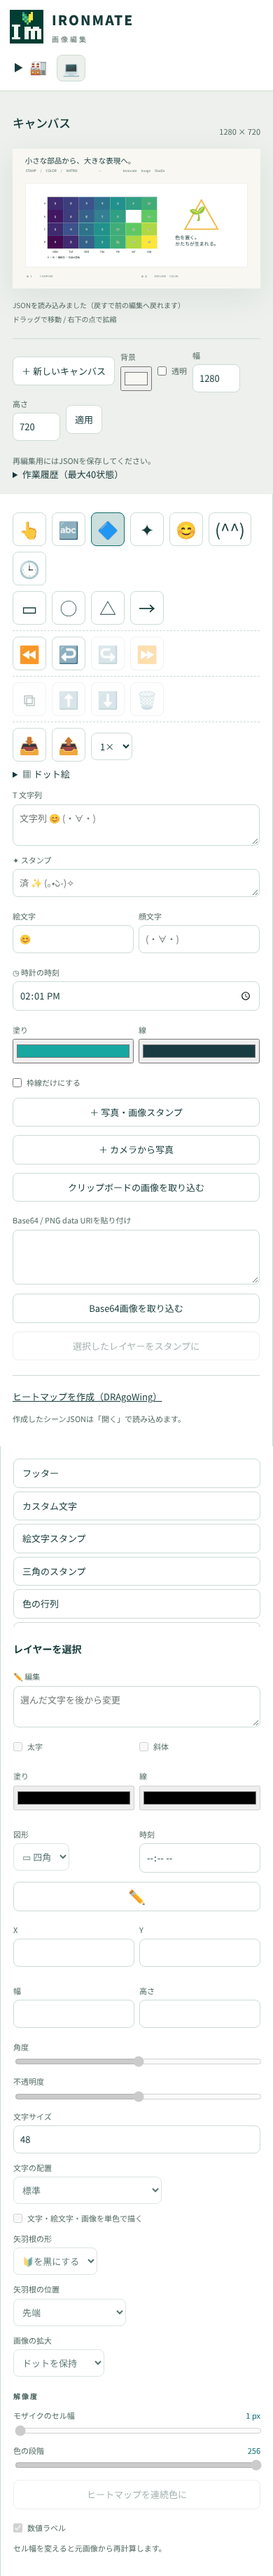
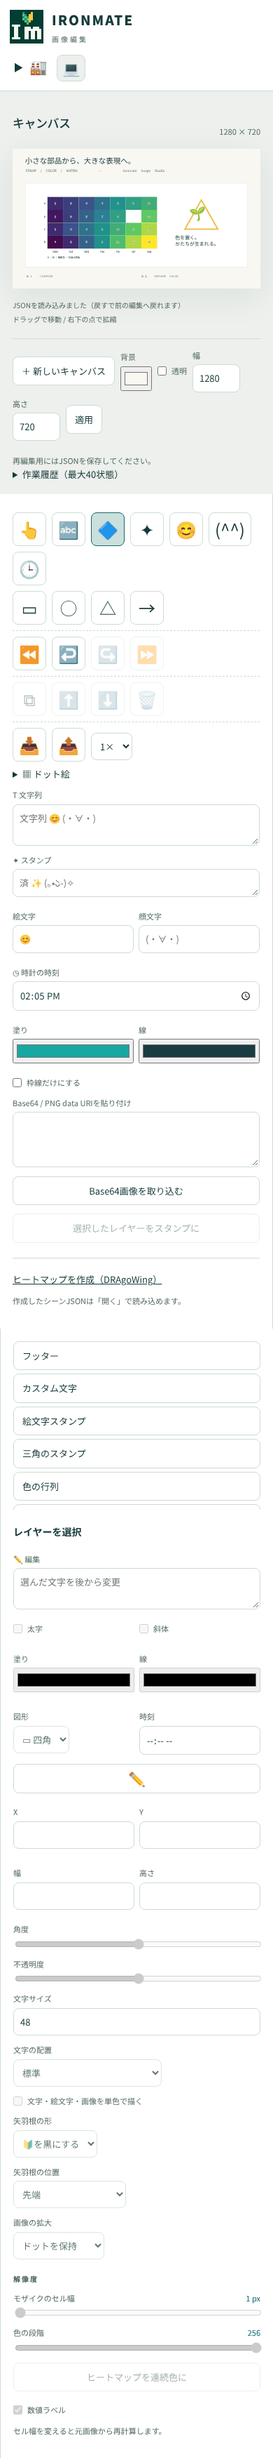
📥 取り込みは 📥 に集める：画像・カメラ・クリップボードを候補に（2 つの工房で同じ順番）
- 画像工房の 📥：画像・カメラ・クリップボード・JSON・作業履歴・シェルフ。左の欄の「＋ 写真・画像スタンプ」「＋ カメラから写真」
  「クリップボードの画像を取り込む」は候補へ移した（同じ処理を呼ぶ）
- スライド工房の 📥：画像・カメラ・JSON（スマホで撮った写真をそのままページへ）
- IronmateStudio.act(name)：道具の act・ヘッダーのキーと同じ処理を、Node・Playwright から待てる形で呼べる

Claude-Session: https://claude.ai/code/session_01YSgSJHsu35KVtPH5EvLLby

diff --git a/ironlib/studio_bundle.py b/ironlib/studio_bundle.py
@@ -158,13 +158,6 @@ STUDIO_HTML = r"""<!doctype html>
         <label class="check"
           ><input id="outline" type="checkbox" />枠線だけにする</label
         >
-        <label class="button wide"
-          >＋ 写真・画像スタンプ<input
-            id="image"
-            type="file"
-            accept="image/png,image/jpeg,image/webp" /></label
-        ><label class="button wide">＋ カメラから写真<input id="camera-image" type="file" accept="image/png,image/jpeg,image/webp" capture="environment" /></label
-        ><button id="paste-image" class="wide">クリップボードの画像を取り込む</button>
         <label>Base64 / PNG data URIを貼り付け<textarea id="import-base64" rows="3" aria-label="画像Base64入力"></textarea></label>
         <button id="import-base64-button" class="wide">Base64画像を取り込む</button>
         <button id="custom" class="wide">選択したレイヤーをスタンプに</button>
@@ -2155,6 +2148,8 @@ queueMicrotask(() => {
 });
 STUDIO_ACTS["open-json"] = () => $("open").click();
 STUDIO_ACTS["open-workspace"] = () => $("open-workspace").click();
+STUDIO_ACTS.image = () => $("image").click();
+STUDIO_ACTS.camera = () => $("camera-image").click();
 // 🧰 A host's header (PySaiyanWeBoo chrome rows, declared in #ui-chrome-rows by image_studio.host_rows) sends a key: the same act.
 document.addEventListener("ui-chrome-action", (e) => {
   const [key, scale] = String(e.detail?.key).split(/-(?=\d+$)/);
@@ -2532,7 +2527,8 @@ function clipboardImageText(text) {
   }
   return null; // Ordinary text, even if it happens to be valid Base64.
 }
-$("paste-image").onclick = guarded(async () => {
+STUDIO_ACTS.clipboard = guarded(async () => {
+  // 📥 クリップボード: an image, or image text (Base64 / data URI), from the clipboard
   const clipboard = navigator.clipboard;
   if (!clipboard || (typeof clipboard.readText !== "function" && typeof clipboard.read !== "function"))
     throw clipboardError("clipboard-unsupported", "このブラウザにはクリップボード読取APIがありません。ファイル選択またはBase64入力を利用してください");
@@ -2847,6 +2843,7 @@ window.IronmateStudio = {
   },
   pngBlob,
   importImageFile,
+  act: (name) => STUDIO_ACTS[name]?.(), // 🧰 what a toolbar press or a host's key runs (awaitable): IronmateStudio.act("clipboard")
   get selectedId() { return selected; },
   async replaceScene(value) {
     const next = C.validate(value);
@@ -3910,6 +3907,7 @@ const acts = {
   }),
   open: () => document.querySelector('input[data-file="open"]').click(),
   image: () => document.querySelector('input[data-file="image"]').click(),
+  camera: () => document.querySelector('input[data-file="camera"]').click(),
   json: () => C.save("ironmate-slides.json", D.deckText(deck), "application/json"),
   async svg() {
     const s = slide();
@@ -3978,7 +3976,7 @@ for (const input of document.querySelectorAll("input[data-file]"))
     const file = input.files[0];
     input.value = "";
     finishEdit();
-    if (file) run(() => files[input.dataset.file](file));
+    if (file) run(() => files[input.dataset.file === "camera" ? "image" : input.dataset.file](file)); // 📷 a photo is an image
   });
 document.addEventListener("keydown", (e) => {
   if (editing || /^(INPUT|TEXTAREA|SELECT)$/.test(e.target.tagName)) return; // ← → Home End: the pager's own keys
@@ -4089,7 +4087,7 @@ PSWB_PARTS = {
         '</div>'
         '<div class="ui-toolbar-row" data-ui-group="file">'
         '<button type="button" data-act="new" data-ui-word="新規" aria-label="最初から（白紙 1 枚）" title="最初から（白紙 1 枚）">🆕</button>'
-        '<button type="button" data-close data-acts="open image" data-words="JSON（全スライド。PC 版で保存したものも）|画像（PNG・JPEG・WebP をこのページに）" data-candidates="JSON 画像" data-act="import" data-ui-word="インポート" aria-label="インポート（どの形式から？ 候補から選ぶ）" title="インポート（どの形式から？ 候補から選ぶ）">📥</button>'
+        '<button type="button" data-close data-acts="image camera open" data-words="画像（PNG・JPEG・WebP をこのページに）|カメラ（撮った写真をこのページに）|JSON（全スライド。PC 版で保存したものも）" data-candidates="画像 カメラ JSON" data-act="import" data-ui-word="インポート" aria-label="インポート（どの形式から？ 候補から選ぶ）" title="インポート（どの形式から？ 候補から選ぶ）">📥</button>'
         '<button type="button" data-close data-acts="pptx json png svg" data-words="PPTX（全スライド、PowerPoint で編集できる）|JSON（全スライド、また開ける）|PNG（このページ）|SVG（このページ）" data-candidates="PPTX JSON PNG SVG" data-act="export" data-ui-word="エクスポート" aria-label="エクスポート（どの形式に？ 候補から選ぶ）" title="エクスポート（どの形式に？ 候補から選ぶ）">📤</button>'
         '<a class="ui-button" href="../" data-act="home" data-ui-word="Image Studio" aria-label="Image Studio" title="Image Studio">🏠</a>'
         '<button type="button" class="ui-button" id="labels-switch" data-ui-labels-switch data-ui-word="📱 To iconic" aria-pressed="false" aria-label="💻 To textual ⇄ 📱 To iconic" title="💻 To textual ⇄ 📱 To iconic">💻</button>'
@@ -4124,6 +4122,7 @@ PSWB_PARTS = {
         '</fieldset>'
         '<input type="file" data-file="open" accept=".json,application/json" aria-label="全スライドJSON" />'
         '<input type="file" data-file="image" accept="image/png,image/jpeg,image/webp" aria-label="画像" />'
+        '<input type="file" data-file="camera" accept="image/png,image/jpeg,image/webp" capture="environment" aria-label="カメラ" />'
         '</div>'),
     "image-toolbar": (
         '        <div class="ui-toolbar" id="studio-toolbar" role="toolbar" aria-label="道具">'
@@ -4151,7 +4150,7 @@ PSWB_PARTS = {
         '<button type="button" data-act="delete" data-ui-word="削除" aria-label="選んだものを削除" title="選んだものを削除">🗑</button>'
         '</div>'
         '<div class="ui-toolbar-row" data-ui-group="file">'
-        '<button type="button" data-close data-acts="open-json open-workspace shelf" data-words="JSON（再編集用のシーン）|作業履歴（最大40状態）|シェルフ（クリップボード・シェルフ）" data-candidates="JSON 作業履歴 シェルフ" data-act="import" data-ui-word="インポート" aria-label="インポート（どの形式から？ 候補から選ぶ）" title="インポート（どの形式から？ 候補から選ぶ）">📥</button>'
+        '<button type="button" data-close data-acts="image camera clipboard open-json open-workspace shelf" data-words="画像（PNG・JPEG・WebP をキャンバスに）|カメラ（撮った写真をキャンバスに）|クリップボード（コピーした画像・Base64）|JSON（再編集用のシーン）|作業履歴（最大40状態）|シェルフ（クリップボード・シェルフ）" data-candidates="画像 カメラ クリップボード JSON 作業履歴 シェルフ" data-act="import" data-ui-word="インポート" aria-label="インポート（どの形式から？ 候補から選ぶ）" title="インポート（どの形式から？ 候補から選ぶ）">📥</button>'
         '<button type="button" data-close data-acts="png svg json workspace base64" data-words="PNG（出力倍率で）|SVG（出力倍率で）|JSON（再編集用）|作業履歴（最大40状態）|Base64（Flutter などへ渡す）" data-candidates="PNG SVG JSON 作業履歴 Base64" data-act="export" data-ui-word="エクスポート" aria-label="エクスポート（どの形式に？ 候補から選ぶ）" title="エクスポート（どの形式に？ 候補から選ぶ）">📤</button>'
         '<select id="export-scale" title="出力倍率" aria-label="出力倍率">'
         '<option value="1">1×</option>'
@@ -4162,6 +4161,8 @@ PSWB_PARTS = {
         '</div>'
         '<input id="open" type="file" accept=".json" aria-label="JSONを開く" hidden />'
         '<input id="open-workspace" type="file" accept=".json,application/json" aria-label="作業履歴を開く" hidden />'
+        '<input id="image" type="file" accept="image/png,image/jpeg,image/webp" aria-label="画像" hidden />'
+        '<input id="camera-image" type="file" accept="image/png,image/jpeg,image/webp" capture="environment" aria-label="カメラ" hidden />'
         '</div>\n'),
 }
 # ⬆ pysaiyanweboo
@@ -4216,11 +4217,13 @@ def studio_toolbar(page: str) -> tuple[list, dict[str, str], dict[str, str]]:
         "grid": ("⊞", "4枚表示", "4枚表示（その場で編集）"),
     }
     formats = {  # 📥 📤 the same act, each page's own formats
-        "slides": {"import": ("JSON 画像", "open image", "JSON（全スライド。PC 版で保存したものも）|画像（PNG・JPEG・WebP をこのページに）"),
+        "slides": {"import": ("画像 カメラ JSON", "image camera open",
+                              "画像（PNG・JPEG・WebP をこのページに）|カメラ（撮った写真をこのページに）|JSON（全スライド。PC 版で保存したものも）"),
                    "export": ("PPTX JSON PNG SVG", "pptx json png svg",
                               "PPTX（全スライド、PowerPoint で編集できる）|JSON（全スライド、また開ける）|PNG（このページ）|SVG（このページ）")},
-        "image": {"import": ("JSON 作業履歴 シェルフ", "open-json open-workspace shelf",
-                             "JSON（再編集用のシーン）|作業履歴（最大40状態）|シェルフ（クリップボード・シェルフ）"),
+        "image": {"import": ("画像 カメラ クリップボード JSON 作業履歴 シェルフ", "image camera clipboard open-json open-workspace shelf",
+                             "画像（PNG・JPEG・WebP をキャンバスに）|カメラ（撮った写真をキャンバスに）|クリップボード（コピーした画像・Base64）"
+                             "|JSON（再編集用のシーン）|作業履歴（最大40状態）|シェルフ（クリップボード・シェルフ）"),
                   "export": ("PNG SVG JSON 作業履歴 Base64", "png svg json workspace base64",
                              "PNG（出力倍率で）|SVG（出力倍率で）|JSON（再編集用）|作業履歴（最大40状態）|Base64（Flutter などへ渡す）")}}[page]
     rows = {"slides": (("create", "text shape emoji kaomoji clock"), ("adjust", "smaller reset bigger undo redo"),
@@ -4242,7 +4245,9 @@ def studio_toolbar(page: str) -> tuple[list, dict[str, str], dict[str, str]]:
         scale = ('<select id="export-scale" title="出力倍率" aria-label="出力倍率">'
                  + "".join(f'<option value="{n}">{n}×</option>' for n in (1, 2, 4, 8)) + '</select>')
         files = ('<input id="open" type="file" accept=".json" aria-label="JSONを開く" hidden />'
-                 '<input id="open-workspace" type="file" accept=".json,application/json" aria-label="作業履歴を開く" hidden />')
+                 '<input id="open-workspace" type="file" accept=".json,application/json" aria-label="作業履歴を開く" hidden />'
+                 '<input id="image" type="file" accept="image/png,image/jpeg,image/webp" aria-label="画像" hidden />'
+                 '<input id="camera-image" type="file" accept="image/png,image/jpeg,image/webp" capture="environment" aria-label="カメラ" hidden />')
         return groups, {"file": scale}, {"file": files}
     numbers = (
         ("x", "横の位置", -8192, 8192, "any", ""), ("y", "縦の位置", -8192, 8192, "any", ""),
@@ -4257,7 +4262,8 @@ def studio_toolbar(page: str) -> tuple[list, dict[str, str], dict[str, str]]:
         + '<label>矢印の先端<select data-property="headPlacement" data-kinds="arrow">'
           '<option value="tip">端</option><option value="middle">中央</option></select></label></fieldset>')
     files = ('<input type="file" data-file="open" accept=".json,application/json" aria-label="全スライドJSON" />'
-             '<input type="file" data-file="image" accept="image/png,image/jpeg,image/webp" aria-label="画像" />')
+             '<input type="file" data-file="image" accept="image/png,image/jpeg,image/webp" aria-label="画像" />'
+             '<input type="file" data-file="camera" accept="image/png,image/jpeg,image/webp" capture="environment" aria-label="カメラ" />')
     after = {"adjust": '<div id="phone-layers" class="ui-toolbar-row ui-current-items" role="group" aria-label="レイヤー（奥から手前）" hidden></div>',
              "pages": '<div id="phone-pages" class="ui-toolbar-row ui-current-items" role="group" aria-label="ページの一覧" hidden></div>',
              "detail": inspector + files}

diff --git a/tests/test_studio.py b/tests/test_studio.py
@@ -1085,6 +1085,8 @@ def test_one_studio_toolbar_table_gives_each_act_one_face_and_one_meaning():
                 assert 0 < len(c['word']) <= 12 and c['close'] == (c['act'] in ('import', 'export')), c
     assert {'forward', 'backward', 'front', 'back', 'duplicate', 'slide-copy'} <= set(seen)          # ⬆ ⬇ one step, ⏫ ⏬ all the way; ⧉ 📑
     assert not hasattr(b, 'PHONE_TOOLS') and not hasattr(b, 'phone_toolbar') and not hasattr(b, 'image_toolbar')
+    shared = lambda page: [k['face'] for _g, row in b.studio_toolbar(page)[0] for c in row if c['act'] == 'import' for k in c['candidates']]
+    assert [f for f in shared('image') if f in shared('slides')] == shared('slides') == ['画像', 'カメラ', 'JSON']   # 📥 the same order on both
 
 
 def test_image_studio_tools_are_the_pswb_toolbar_and_every_act_is_answered():
@@ -1100,7 +1102,8 @@ def test_image_studio_tools_are_the_pswb_toolbar_and_every_act_is_answered():
     assert 'id="studio-toolbar"' in html and 'id="studio-candidates"' in html and 'data-tool=' not in html
     assert not re.search(r'id="(undo|redo|png|svg|save|save-workspace|base64|shelf-button|duplicate|delete|front|back|candidates|studio-import|studio-export)"', html)
     files = {c['act']: c for _g, row in groups for c in row if _g == 'file'}
-    assert [k['face'] for k in files['import']['candidates']] == ['JSON', '作業履歴', 'シェルフ'] and files['import']['close']
+    assert [k['face'] for k in files['import']['candidates']] == ['画像', 'カメラ', 'クリップボード', 'JSON', '作業履歴', 'シェルフ'] and files['import']['close']
+    assert not re.search(r'id="paste-image"|＋ 写真|＋ カメラ', html) and 'id="camera-image" type="file"' in html and 'capture="environment"' in html
     assert [k['face'] for k in files['export']['candidates']] == ['PNG', 'SVG', 'JSON', '作業履歴', 'Base64'] and files['export']['close']
     script = b.STUDIO_JS[b.STUDIO_JS.index('/* Image Studio UI'):b.STUDIO_JS.index('/* Tools page UI')]
     modes = set(re.search(r'const MODES = \[([^\]]*)\]', script)[1].replace('"', '').replace(' ', '').split(','))
@@ -1186,15 +1189,15 @@ def test_phone_page_is_emoji_only_and_every_control_is_bound():
     # 🔷 💾: a candidate that is an action names it in the markup, and the script has it; 😊 (^^) candidates are only stamped
     named = dict((act, acts_) for acts_, act in re.findall(r'data-acts="([a-z ]+)" data-words="[^"]*" data-candidates="[^"]*" data-act="([a-z]+)"', html))
     assert named == {'shape': 'rect ellipse triangle arrow', 'look': 'fill stroke fade bold font', 'turn': 'cw ccw upright',
-                     'import': 'open image', 'export': 'pptx json png svg'}, named
+                     'import': 'image camera open', 'export': 'pptx json png svg'}, named
     # 📥 どの形式から？ 📤 どの形式に？ the formats are candidates in words, and a pick hides the row (data-close)
     assert [(a, c) for c, a in re.findall(r'data-close data-acts="[^"]*" data-words="[^"]*" data-candidates="([^"]*)" data-act="(\w+)"', html)] == [
-        ('import', 'JSON 画像'), ('export', 'PPTX JSON PNG SVG')]
+        ('import', '画像 カメラ JSON'), ('export', 'PPTX JSON PNG SVG')]
     assert '<select data-format' not in html
     for act in ' '.join(named.values()).split():
         assert re.search(rf'(^|[\s{{,])("{act}"|{act})(\(|:)', script, re.M), act
     assert not re.search(r'data-act="(pptx|save|open|image|bold|color)"', html)                   # 📥 📤 🎨 then the choice: no button each
-    assert re.findall(r'<input type="file" data-file="([a-z]+)"', html) == ['open', 'image']
+    assert re.findall(r'<input type="file" data-file="([a-z]+)"', html) == ['open', 'image', 'camera']
     assert f'data-text-scale="{" ".join(f"{v:g}" for v in b.PHONE_TEXT["scale"])}"' in html
 
 

diff --git a/docs/image-studio.md b/docs/image-studio.md
@@ -21,7 +21,7 @@ On GitHub Pages it runs without Python. Only fixed HTML/JS/CSS is published; ima
    Drag-scaling text also changes the font size. Change what is already placed with `✏ 編集` (edit) on the right: the words, `太字` (bold), `斜体` (italic), fill and line colors, the shape, a clock's time.
 6. Edit layers with `前へ／後ろへ` (forward / backward) for stacking order and `複製／削除` (duplicate / delete). Undo/redo keeps up to 40 states.
    Loading JSON and `新しいキャンバス` (new canvas) are also recorded in history. The selection frame is not included in exported images.
-7. Download PNG or SVG from `📤` (どの形式に？ to which format?): it lists PNG, SVG, JSON, 作業履歴 (history) and Base64 in words, and a pick hides the list again; the `1×` beside it is the output scale. `📥` (どの形式から？ from which format?) lists JSON, 作業履歴 and the clipboard shelf. Use JSON for re-editing; it contains original images, values and layers. The tools are one toolbar on the left, the same PySaiyanWeBoo `toolbar` as the slide editor's, from one table (`studio_toolbar`: an act has one face and one word on both pages): rows of make (`👆 🔤 🔷 ✦ 😊 (^^) 🕒`), adjust (`⏪ ↩ ↪ ⏩`), change (`⧉ 🗑 ⬆ ⬇`: copy, delete, one step forward / back) and file (`📥 📤`), with a dashed line between them; `🔷 😊 (^^)` open their candidates right under their row. The buttons show emoji by default; `💻` (at the end of the top bar, or the `⋯` row) swaps them for short words on the same page, and `📱` swaps back; the choice is remembered. When the studio is shown inside a site with a shared header (the portfolio), the page carries no header of its own: it declares its rows as data (`image_studio.host_rows`: the shelf and `💻 To textual ⇄ 📱 To iconic` under `⋯`), and a key from the header runs the same act as the toolbar.
+7. Download PNG or SVG from `📤` (どの形式に？ to which format?): it lists PNG, SVG, JSON, 作業履歴 (history) and Base64 in words, and a pick hides the list again; the `1×` beside it is the output scale. `📥` (どの形式から？ from which format?) lists 画像, カメラ, クリップボード (an image or image text), JSON, 作業履歴 and the clipboard shelf, the first three in the same order as the slide editor's. Use JSON for re-editing; it contains original images, values and layers. The tools are one toolbar on the left, the same PySaiyanWeBoo `toolbar` as the slide editor's, from one table (`studio_toolbar`: an act has one face and one word on both pages): rows of make (`👆 🔤 🔷 ✦ 😊 (^^) 🕒`), adjust (`⏪ ↩ ↪ ⏩`), change (`⧉ 🗑 ⬆ ⬇`: copy, delete, one step forward / back) and file (`📥 📤`), with a dashed line between them; `🔷 😊 (^^)` open their candidates right under their row. The buttons show emoji by default; `💻` (at the end of the top bar, or the `⋯` row) swaps them for short words on the same page, and `📱` swaps back; the choice is remembered. When the studio is shown inside a site with a shared header (the portfolio), the page carries no header of its own: it declares its rows as data (`image_studio.host_rows`: the shelf and `💻 To textual ⇄ 📱 To iconic` under `⋯`), and a key from the header runs the same act as the toolbar.
    This JSON includes original images, so sharing it shares them too. Use PNG to share after applying a mosaic.
 
 PNG defaults to 1280×720, usable as a 16:9 image for documents. The background can be transparent.

diff --git a/docs/slide-studio.md b/docs/slide-studio.md
@@ -30,7 +30,7 @@ One editor for phones and PCs, phone-first. The slide stays pinned at the top wh
 | 🗂 ⊞ | All pages as thumbnails, or four at a time. In four-up, select any tile and edit it in place with the same tools. Views are not undoable |
 | 🆕 | Start over (one blank page) |
 | 🗑 ↩ ↪ | Delete the selection, undo, redo (64 steps) |
-| 📥 📤 | Import and export. The formats open in the candidate row, in words, like 🔷's: 📥 どの形式から？ JSON (all slides, also those the PC studio saved) or 画像 (a picture onto this page; photos become PNG, at most 4 MP and 1920 px on the long side); 📤 どの形式に？ PPTX (every slide, editable in PowerPoint), JSON, PNG or SVG (this page as it looks). A pick does it and the row hides again |
+| 📥 📤 | Import and export. The formats open in the candidate row, in words, like 🔷's: 📥 どの形式から？ 画像 (a picture onto this page; カメラ takes a photo for it, on a phone; photos become PNG, at most 4 MP and 1920 px on the long side) or JSON (all slides, also those the PC studio saved); 📤 どの形式に？ PPTX (every slide, editable in PowerPoint), JSON, PNG or SVG (this page as it looks). A pick does it and the row hides again |
 | 🏠 | Image Studio |
 | 💻 ⇄ 📱 | 💻 To textual: short words in place of the emoji, as on a PC; 📱 To iconic: the emoji again (the default). The same page, no reload; remembered in this browser. On the site the switch is under ⋯ in the header. The rows are groups (make, adjust, change, pages, file) with a light dashed line between them |
 
